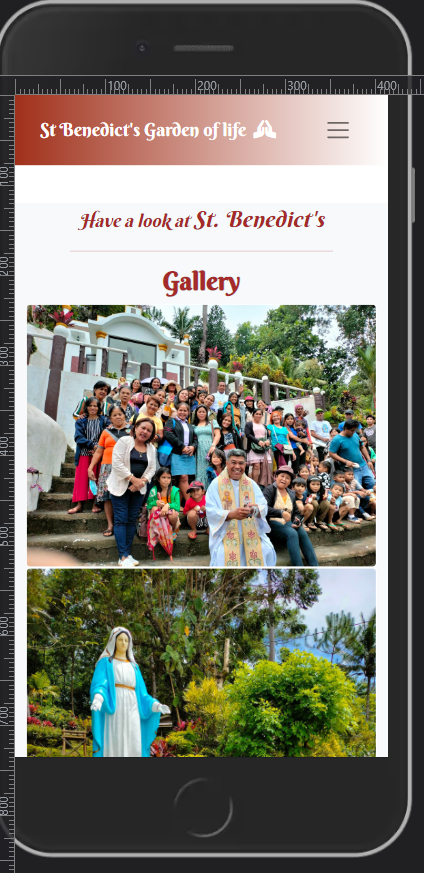
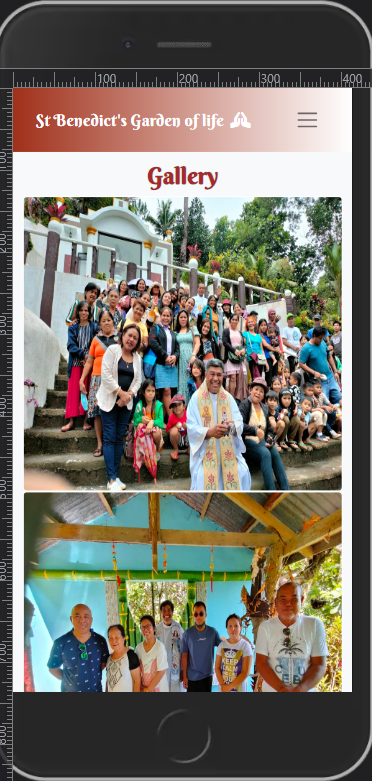
Replace images in README file

diff --git a/README.md b/README.md
@@ -8,7 +8,7 @@ St Bendict's has been open to the public for a quite sometime now servicing vari
 St Benedict's Garden of Life is a fully responsive website that allow users to book, update and delete a reservation. Only sign-up users are allowed to create a booking,
 otherwise the user can have a looked only at the St Benedict's Garden of life website.
 
-![responsive image](./static/images/responsive_stb.png)
+![responsive image](./static/images/responsive.png)
 
 
 # Navigation
